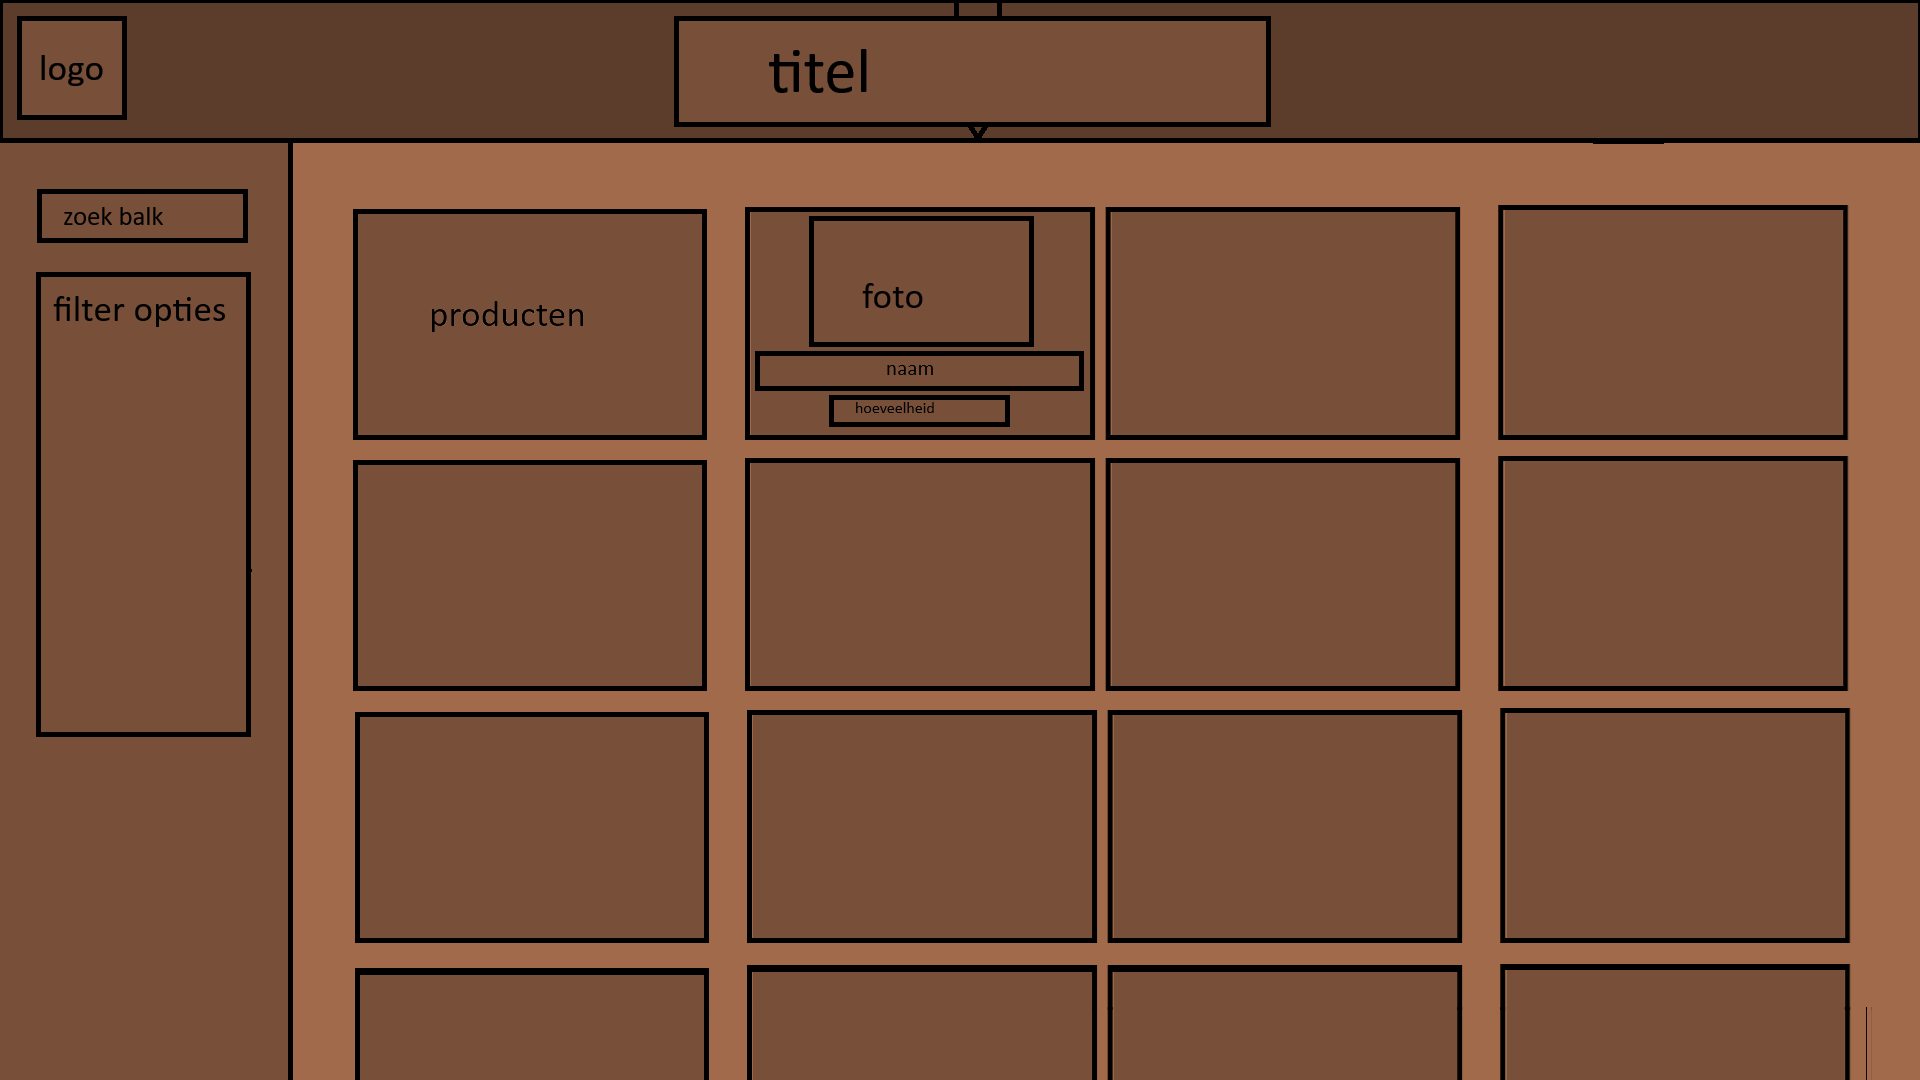
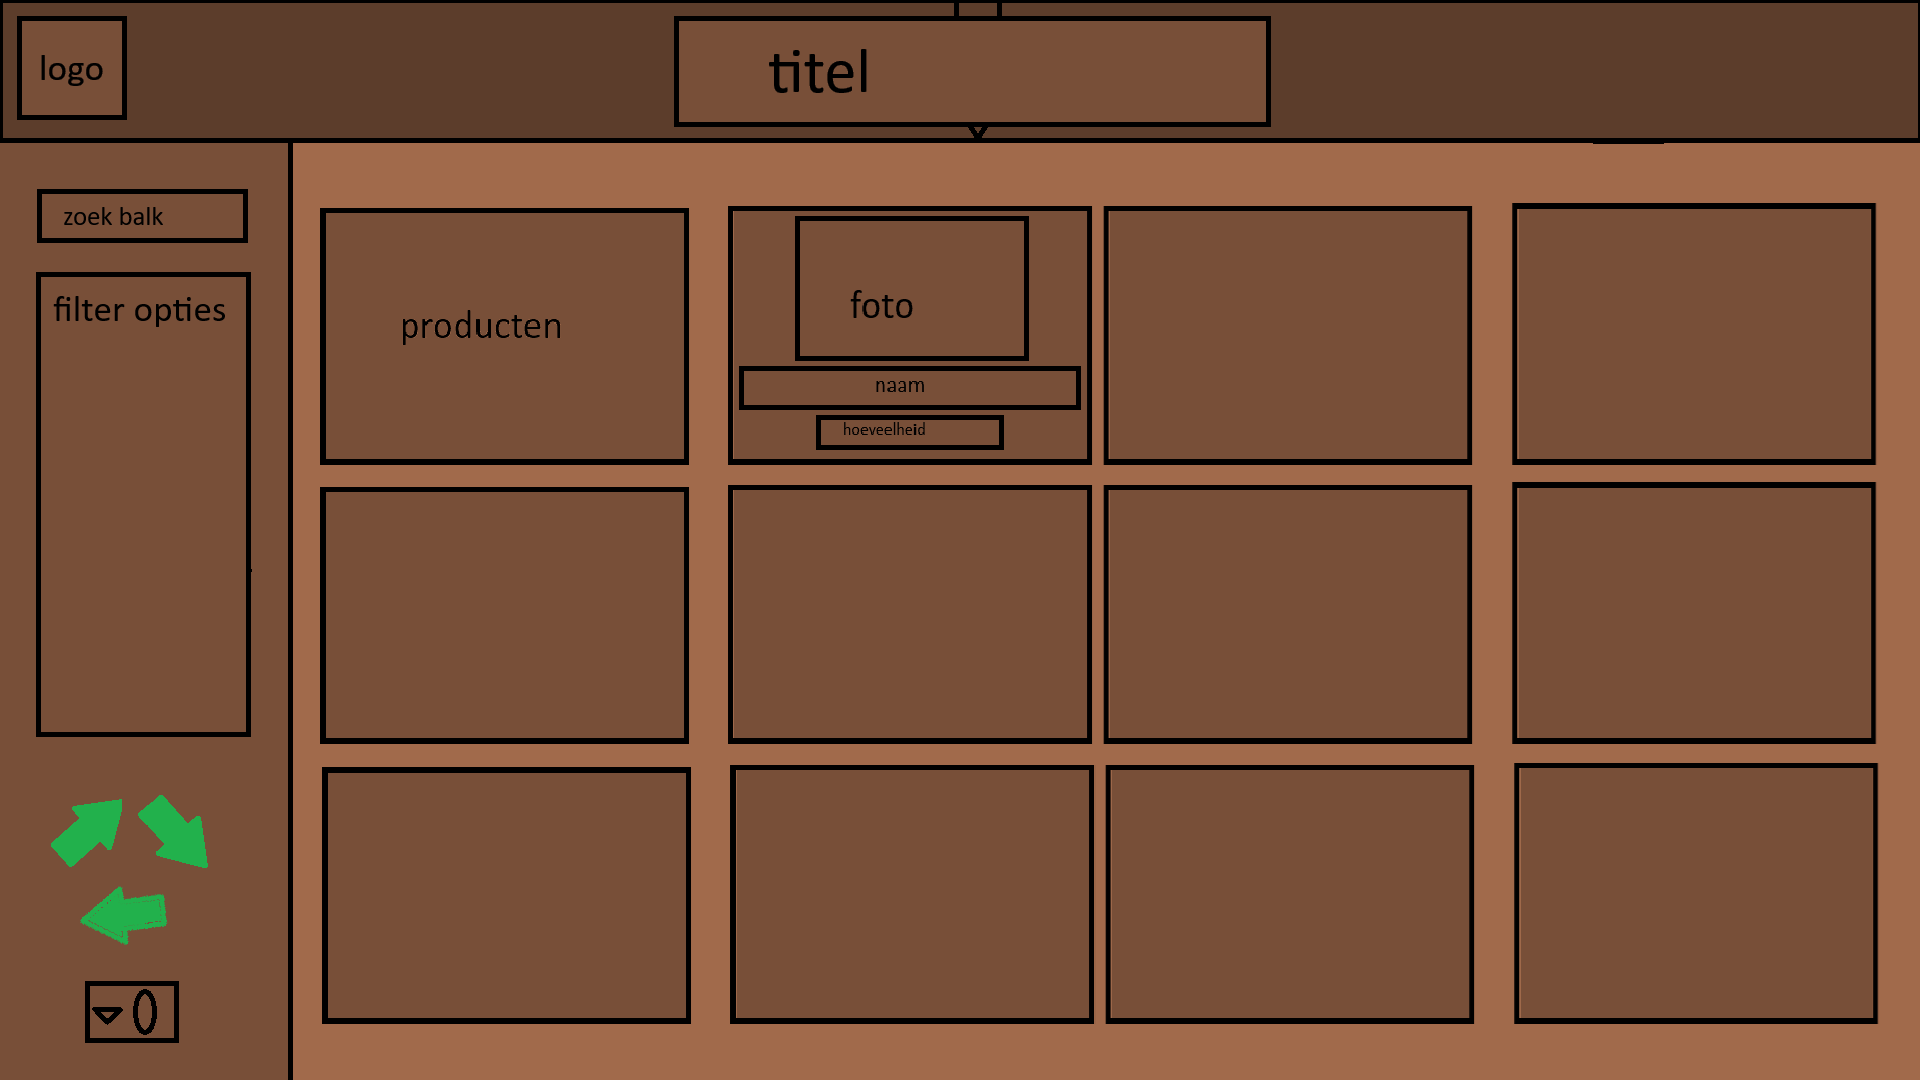
week late push

diff --git a/src/style.css b/src/style.css
@@ -24,25 +24,19 @@ body {
     align-items: center;
     justify-content: center;
     position: relative;
-    padding: 15px 20px;
     max-height: 10%;
 }
 
 .logo {
-    position: absolute;
-    left: 20px;
+    position: flex;
     border: 3px solid #000;
-    padding: 10px 20px;
     background-color: #a67c52;
     font-weight: bold;
 }
 
 .titel {
     border: 3px solid #000;
-    padding: 10px 80px;
     background-color: #a67c52;
-    font-size: 2rem;
-    font-weight: bold;
 }
 
 /* Main Layout (Sidebar + Content) */
@@ -53,16 +47,16 @@ body {
 
 /* Sidebar Styling */
 .sidebar {
-    width: 220px;
+    top: 10%;
+    max-height: 90%;
+    width: 10%;
     background-image: url('png/hout.jpg');
     background-size: fill;
     background-position: center;
     background-repeat: repeat;
     border-right: 3px solid #000;
-    padding: 20px 15px;
-    display: flex;
+    display: fixed;
     flex-direction: column;
-    gap: 20px;
 }
 
 .zoekbalk input {
@@ -116,12 +110,10 @@ body {
     border: 3px solid #000;
     background-color: #a67c52;
     opacity: 0.7;
-    aspect-ratio: 5 / 3;
     display: flex;
     flex-direction: column;
     align-items: center;
     justify-content: center;
-    padding: 15px;
     gap: 8px;
 }
 

diff --git a/src/vooraad_beheer.php b/src/vooraad_beheer.php
@@ -1,34 +1,299 @@
 <?php
-$producten = array_fill(0, 8, [
+$producten = array_fill(0, 12, [
     'naam' => 'naam',
     'hoeveelheid' => 'hoeveelheid',
-    'afbeelding' => 'placeholder.jpg'
+    'afbeelding' => 'png/placeholder.jpeg'
 ]);
+
+// Paginering (placeholder: $totaalPaginas komt straks uit een COUNT-query, $huidigePagina stuurt de LIMIT/OFFSET)
+$huidigePagina = isset($_GET['pagina']) ? max(1, (int) $_GET['pagina']) : 1;
+$totaalPaginas = 3;
 ?>
 <!DOCTYPE html>
 <html lang="nl">
 <head>
     <meta charset="UTF-8">
     <meta name="viewport" content="width=device-width, initial-scale=1.0">
-    <title>vooraad beheer</title>
+    <title>Voorraad beheer</title>
     <link rel="stylesheet" href="style.css">
+    <style>
+        :root {
+    --leer-donker: #3b2a1a;
+    --leer-midden: #a67c52;
+    --leer-licht: #f5ead9;
+}
+
+* {
+    box-sizing: border-box;
+    margin: 0;
+    padding: 0;
+    font-family: 'Segoe UI', Arial, sans-serif;
+}
+
+html {
+    height: 100%;
+}
+
+body {
+    height: 100%;
+    background-image: url('png/background.jpg');
+    background-size: cover;
+    background-position: center;
+    background-attachment: fixed;
+    display: flex;
+    flex-direction: column;
+    overflow: hidden;
+    color: var(--leer-donker);
+}
+
+/* Header Styling */
+.header {
+    position: relative;
+    height: 13%;
+    flex-shrink: 0;
+    background-image: url('png/leer header.jpg');
+    background-size: cover;
+    background-position: center;
+    border-bottom: 4px solid var(--leer-donker);
+    display: flex;
+    align-items: center;
+    justify-content: center;
+    box-shadow: 0 2px 8px rgba(0, 0, 0, 0.25);
+}
+
+.logo,
+.titel {
+    height: 60%;
+    background-color: rgba(166, 124, 82, 0.92);
+    border: 2px solid var(--leer-donker);
+    border-radius: 12%;
+    padding: 0 3%;
+    display: flex;
+    align-items: center;
+    box-shadow: 0 2px 4px rgba(0, 0, 0, 0.2);
+}
+
+.logo {
+    position: absolute;
+    left: 2%;
+    top: 50%;
+    transform: translateY(-50%);
+    font-weight: bold;
+}
+
+.logo img,
+.titel img {
+    height: 60%;
+    width: auto;
+}
+
+/* Main Layout (Sidebar + Content) */
+.main-container {
+    display: flex;
+    flex: 1;
+    min-height: 0;
+    overflow: hidden;
+}
+
+/* Sidebar Styling */
+.sidebar {
+    width: 18%;
+    flex-shrink: 0;
+    min-height: 0;
+    overflow: hidden;
+    background-image: url('png/hout.jpg');
+    background-size: cover;
+    background-position: center;
+    border-right: 3px solid var(--leer-donker);
+    display: flex;
+    flex-direction: column;
+    padding: 3%;
+    gap: 2%;
+    box-shadow: 2px 0 6px rgba(0, 0, 0, 0.2);
+}
+
+.zoekbalk input {
+    width: 100%;
+    border: 2px solid var(--leer-donker);
+    border-radius: 8%;
+    padding: 4% 6%;
+    background-color: var(--leer-licht);
+    font-size: 0.95rem;
+    outline: none;
+    transition: box-shadow 0.2s ease;
+}
+
+.zoekbalk input:focus {
+    box-shadow: 0 0 0 3px rgba(166, 124, 82, 0.5);
+}
+
+.filter-opties {
+    flex: 1;
+    border: 2px solid var(--leer-donker);
+    border-radius: 4%;
+    padding: 5%;
+    background-color: rgba(245, 234, 217, 0.92);
+    font-size: 1rem;
+    font-weight: 600;
+}
+
+.recycle-icon {
+    margin-top: auto;
+    padding: 5%;
+}
+
+.recycle-icon img {
+    width: 100%;
+    border-radius: 8%;
+    display: block;
+}
+
+.pagination {
+    display: flex;
+    align-items: center;
+    justify-content: center;
+    flex-wrap: wrap;
+    gap: 2%;
+}
+
+.page-btn {
+    display: flex;
+    align-items: center;
+    justify-content: center;
+    width: 16%;
+    aspect-ratio: 1;
+    border: 1px solid var(--leer-donker);
+    border-radius: 20%;
+    background-color: var(--leer-licht);
+    color: var(--leer-donker);
+    font-size: 0.8rem;
+    text-decoration: none;
+    transition: background-color 0.15s ease, color 0.15s ease;
+}
+
+.page-btn:hover {
+    background-color: var(--leer-midden);
+    color: #fff;
+}
+
+.page-btn.active {
+    background-color: var(--leer-donker);
+    color: #fff;
+    font-weight: 600;
+}
+
+.page-btn.disabled {
+    opacity: 0.4;
+    pointer-events: none;
+}
+
+/* Content & Grid Styling */
+.content {
+    flex: 1;
+    min-height: 0;
+    display: flex;
+    flex-direction: column;
+    padding: 3% 4%;
+    overflow: hidden;
+}
+
+.product-grid {
+    flex: 1;
+    min-height: 0;
+    display: grid;
+    grid-template-columns: repeat(4, minmax(0, 1fr));
+    grid-template-rows: repeat(3, minmax(0, 1fr));
+    gap: 3%;
+}
+
+.product-card {
+    border: 2px solid var(--leer-donker);
+    border-radius: 8%;
+    background-color: var(--leer-licht);
+    display: flex;
+    flex-direction: column;
+    align-items: center;
+    gap: 4%;
+    padding: 5%;
+    min-height: 0;
+    overflow: hidden;
+    box-shadow: 0 3px 8px rgba(0, 0, 0, 0.15);
+    transition: transform 0.15s ease, box-shadow 0.15s ease;
+}
+
+.product-card:hover {
+    transform: translateY(-4px);
+    box-shadow: 0 6px 14px rgba(0, 0, 0, 0.25);
+}
+
+/* Specifieke elementen binnen de productkaarten */
+.foto-box {
+    border: 2px solid #d8c3a5;
+    border-radius: 8%;
+    width: 100%;
+    flex: 1;
+    min-height: 0;
+    background-color: #fff;
+    display: flex;
+    align-items: center;
+    justify-content: center;
+    overflow: hidden;
+}
+
+.foto-box img {
+    max-width: 70%;
+    max-height: 100%;
+    object-fit: contain;
+}
+
+.naam-box {
+    width: 100%;
+    text-align: center;
+    font-size: 0.95rem;
+    font-weight: 600;
+    flex-shrink: 0;
+    white-space: nowrap;
+    overflow: hidden;
+    text-overflow: ellipsis;
+}
+
+.hoeveelheid-box {
+    flex-shrink: 0;
+    border: 1px solid var(--leer-midden);
+    border-radius: 50%;
+    padding: 2% 8%;
+    font-size: 0.8rem;
+    color: #6b4b2a;
+    background-color: #fff;
+}
+</style>
 </head>
 <body>
 
     <header class="header">
-        <div class="logo"><img src="png/logo.png" alt="logo" style="width:50%;height:50%;"></div>
-        <div class="titel"><img src="png/titel.png" alt="titel" style="width:50%;height:50%;"></div>
+        <div class="logo"><img src="png/logo.png" alt="logo"></div>
+        <div class="titel"><img src="png/titel.png" alt="titel"></div>
     </header>
 
     <div class="main-container">
 
         <aside class="sidebar">
             <div class="zoekbalk">
-                <input type="text" id="searchInput" placeholder="zoek balk">
+                <input type="text" id="searchInput" placeholder="Zoeken...">
             </div>
             <div class="filter-opties">
-                <p>filter opties</p>
+                <p>Filter opties</p>
             </div>
+            <div class="recycle-icon">
+                <img src="png/recycle.png" alt="recycle">
+            </div>
+            <nav class="pagination">
+                <a class="page-btn<?php echo $huidigePagina <= 1 ? ' disabled' : ''; ?>" href="?pagina=<?php echo max(1, $huidigePagina - 1); ?>">&laquo;</a>
+                <?php for ($i = 1; $i <= $totaalPaginas; $i++): ?>
+                    <a class="page-btn<?php echo $i === $huidigePagina ? ' active' : ''; ?>" href="?pagina=<?php echo $i; ?>"><?php echo $i; ?></a>
+                <?php endfor; ?>
+                <a class="page-btn<?php echo $huidigePagina >= $totaalPaginas ? ' disabled' : ''; ?>" href="?pagina=<?php echo min($totaalPaginas, $huidigePagina + 1); ?>">&raquo;</a>
+            </nav>
         </aside>
 
         <main class="content">
@@ -44,9 +309,7 @@ $producten = array_fill(0, 8, [
         </main>
 
     </div>
-    <div>
-        <p>Footer content</p>
-    </div>
+
     <script src="script.js"></script>
 </body>
 </html>
